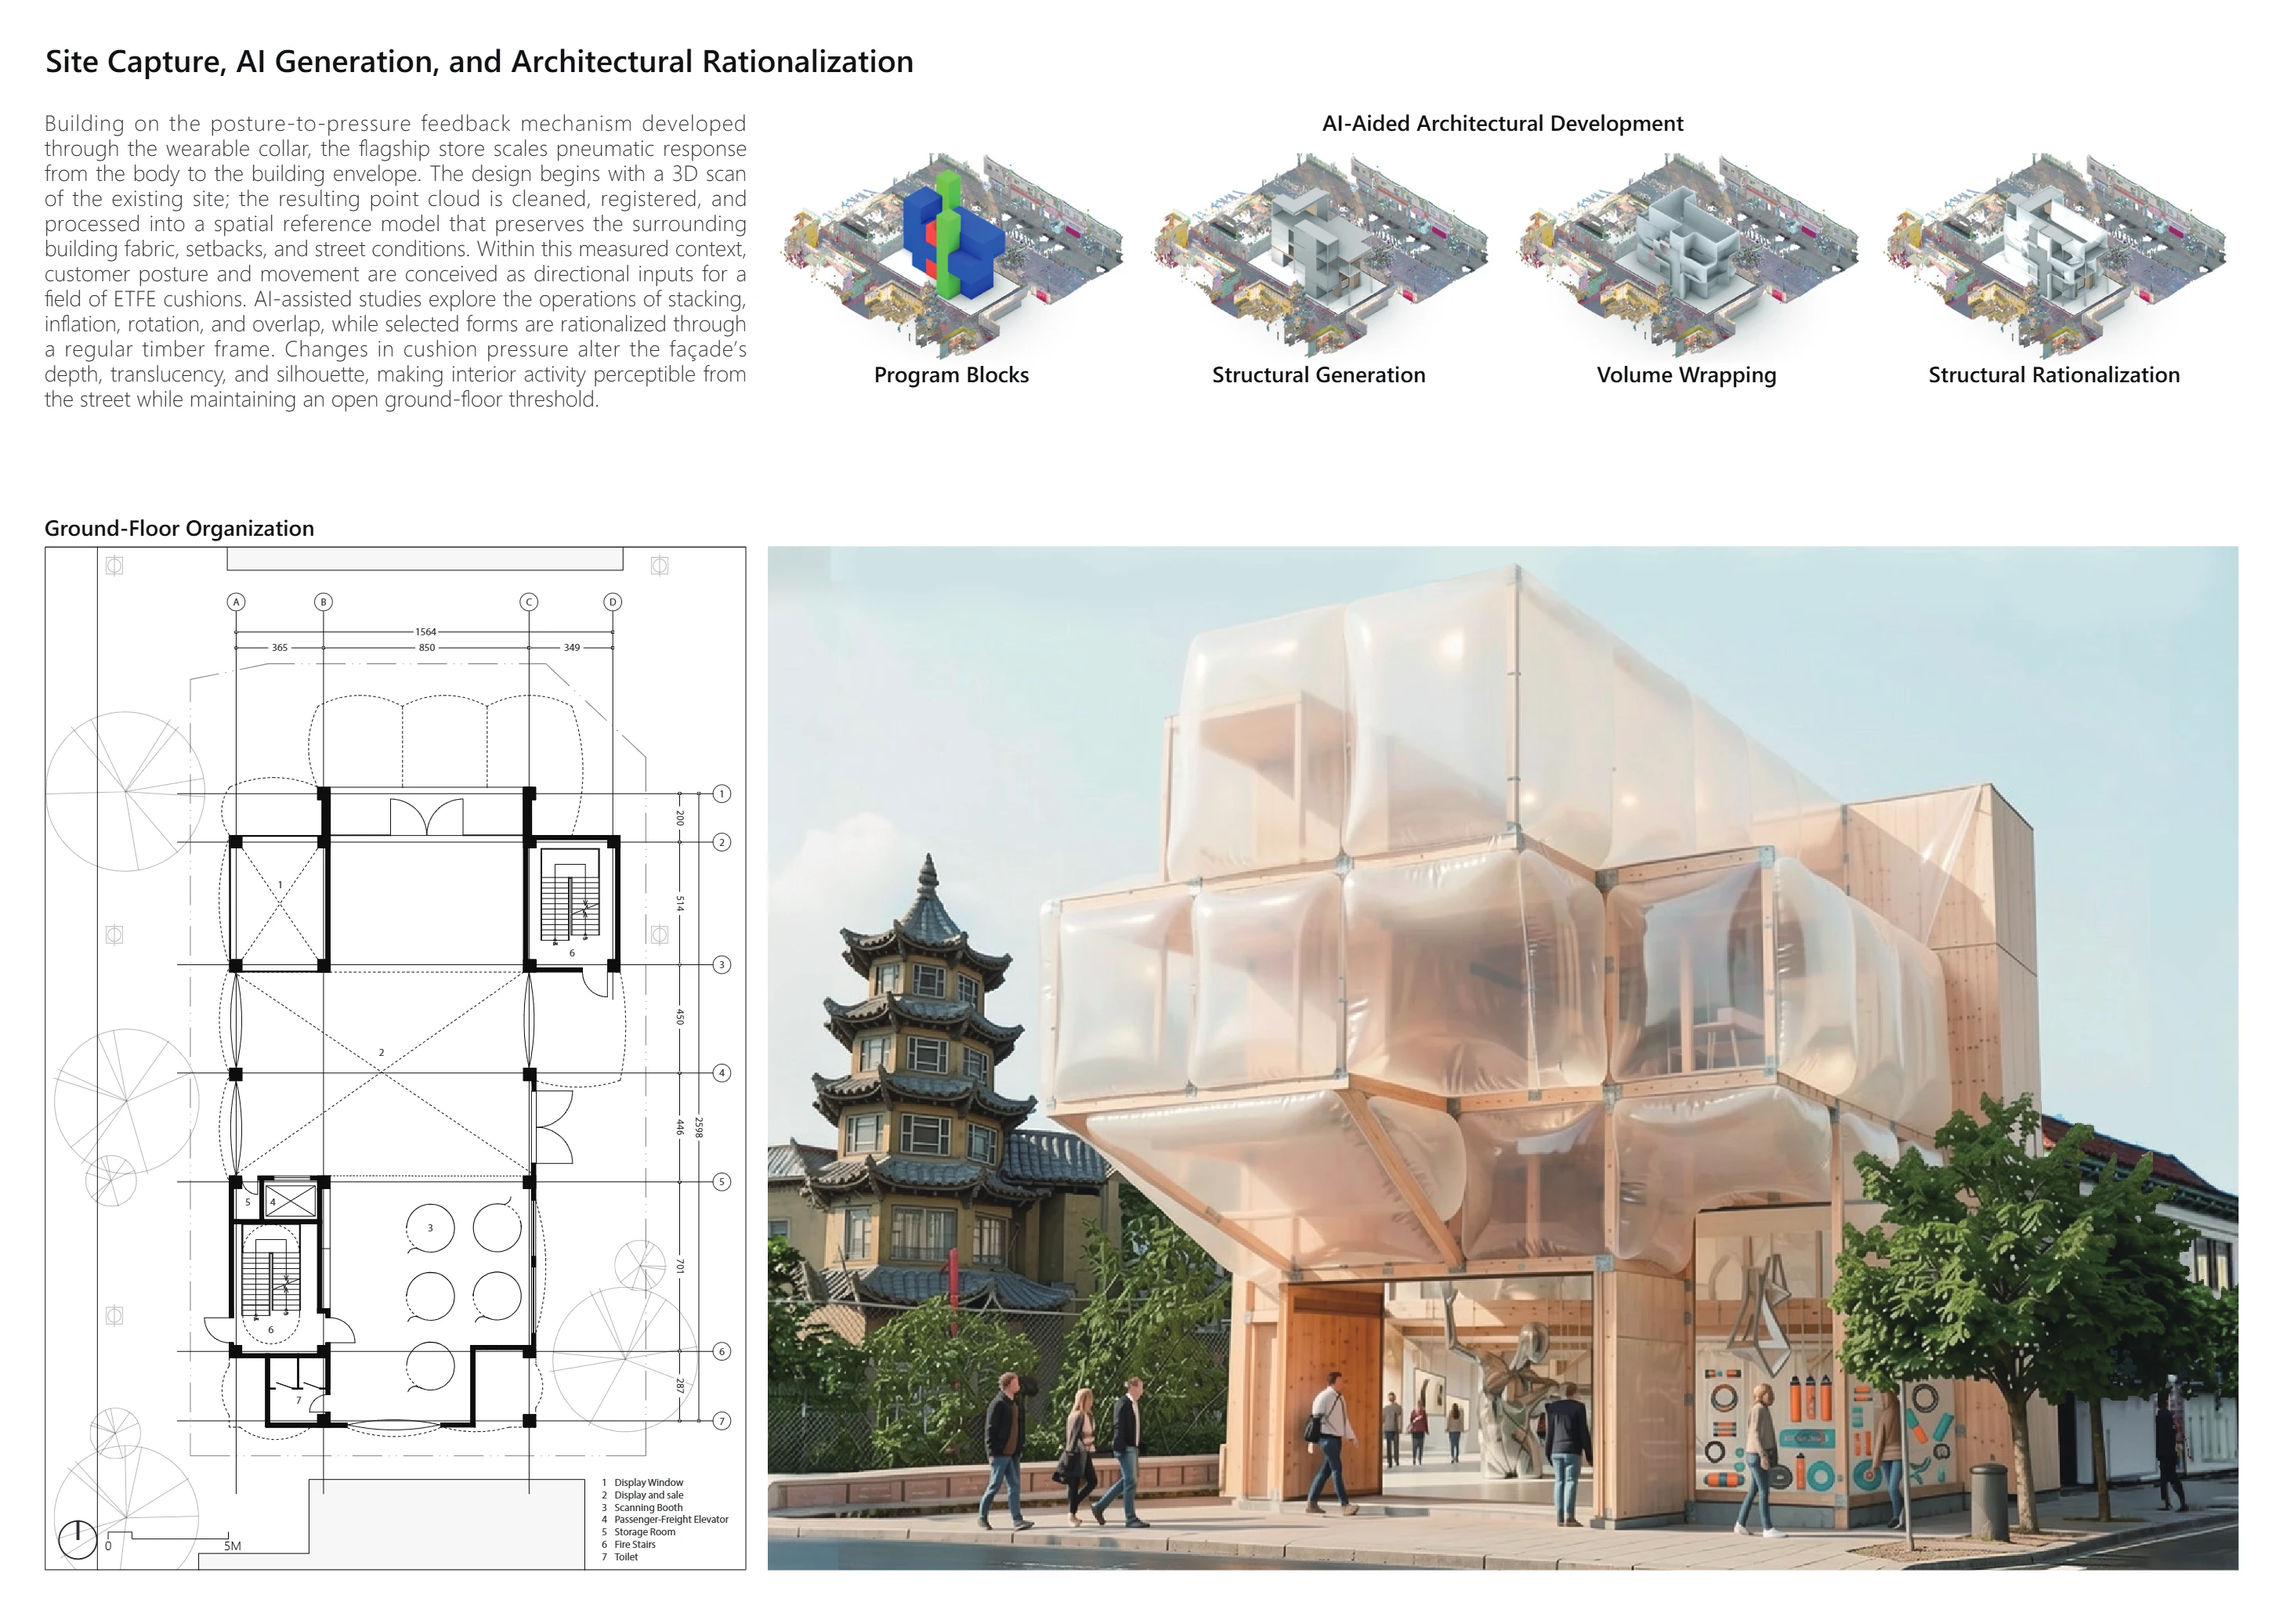
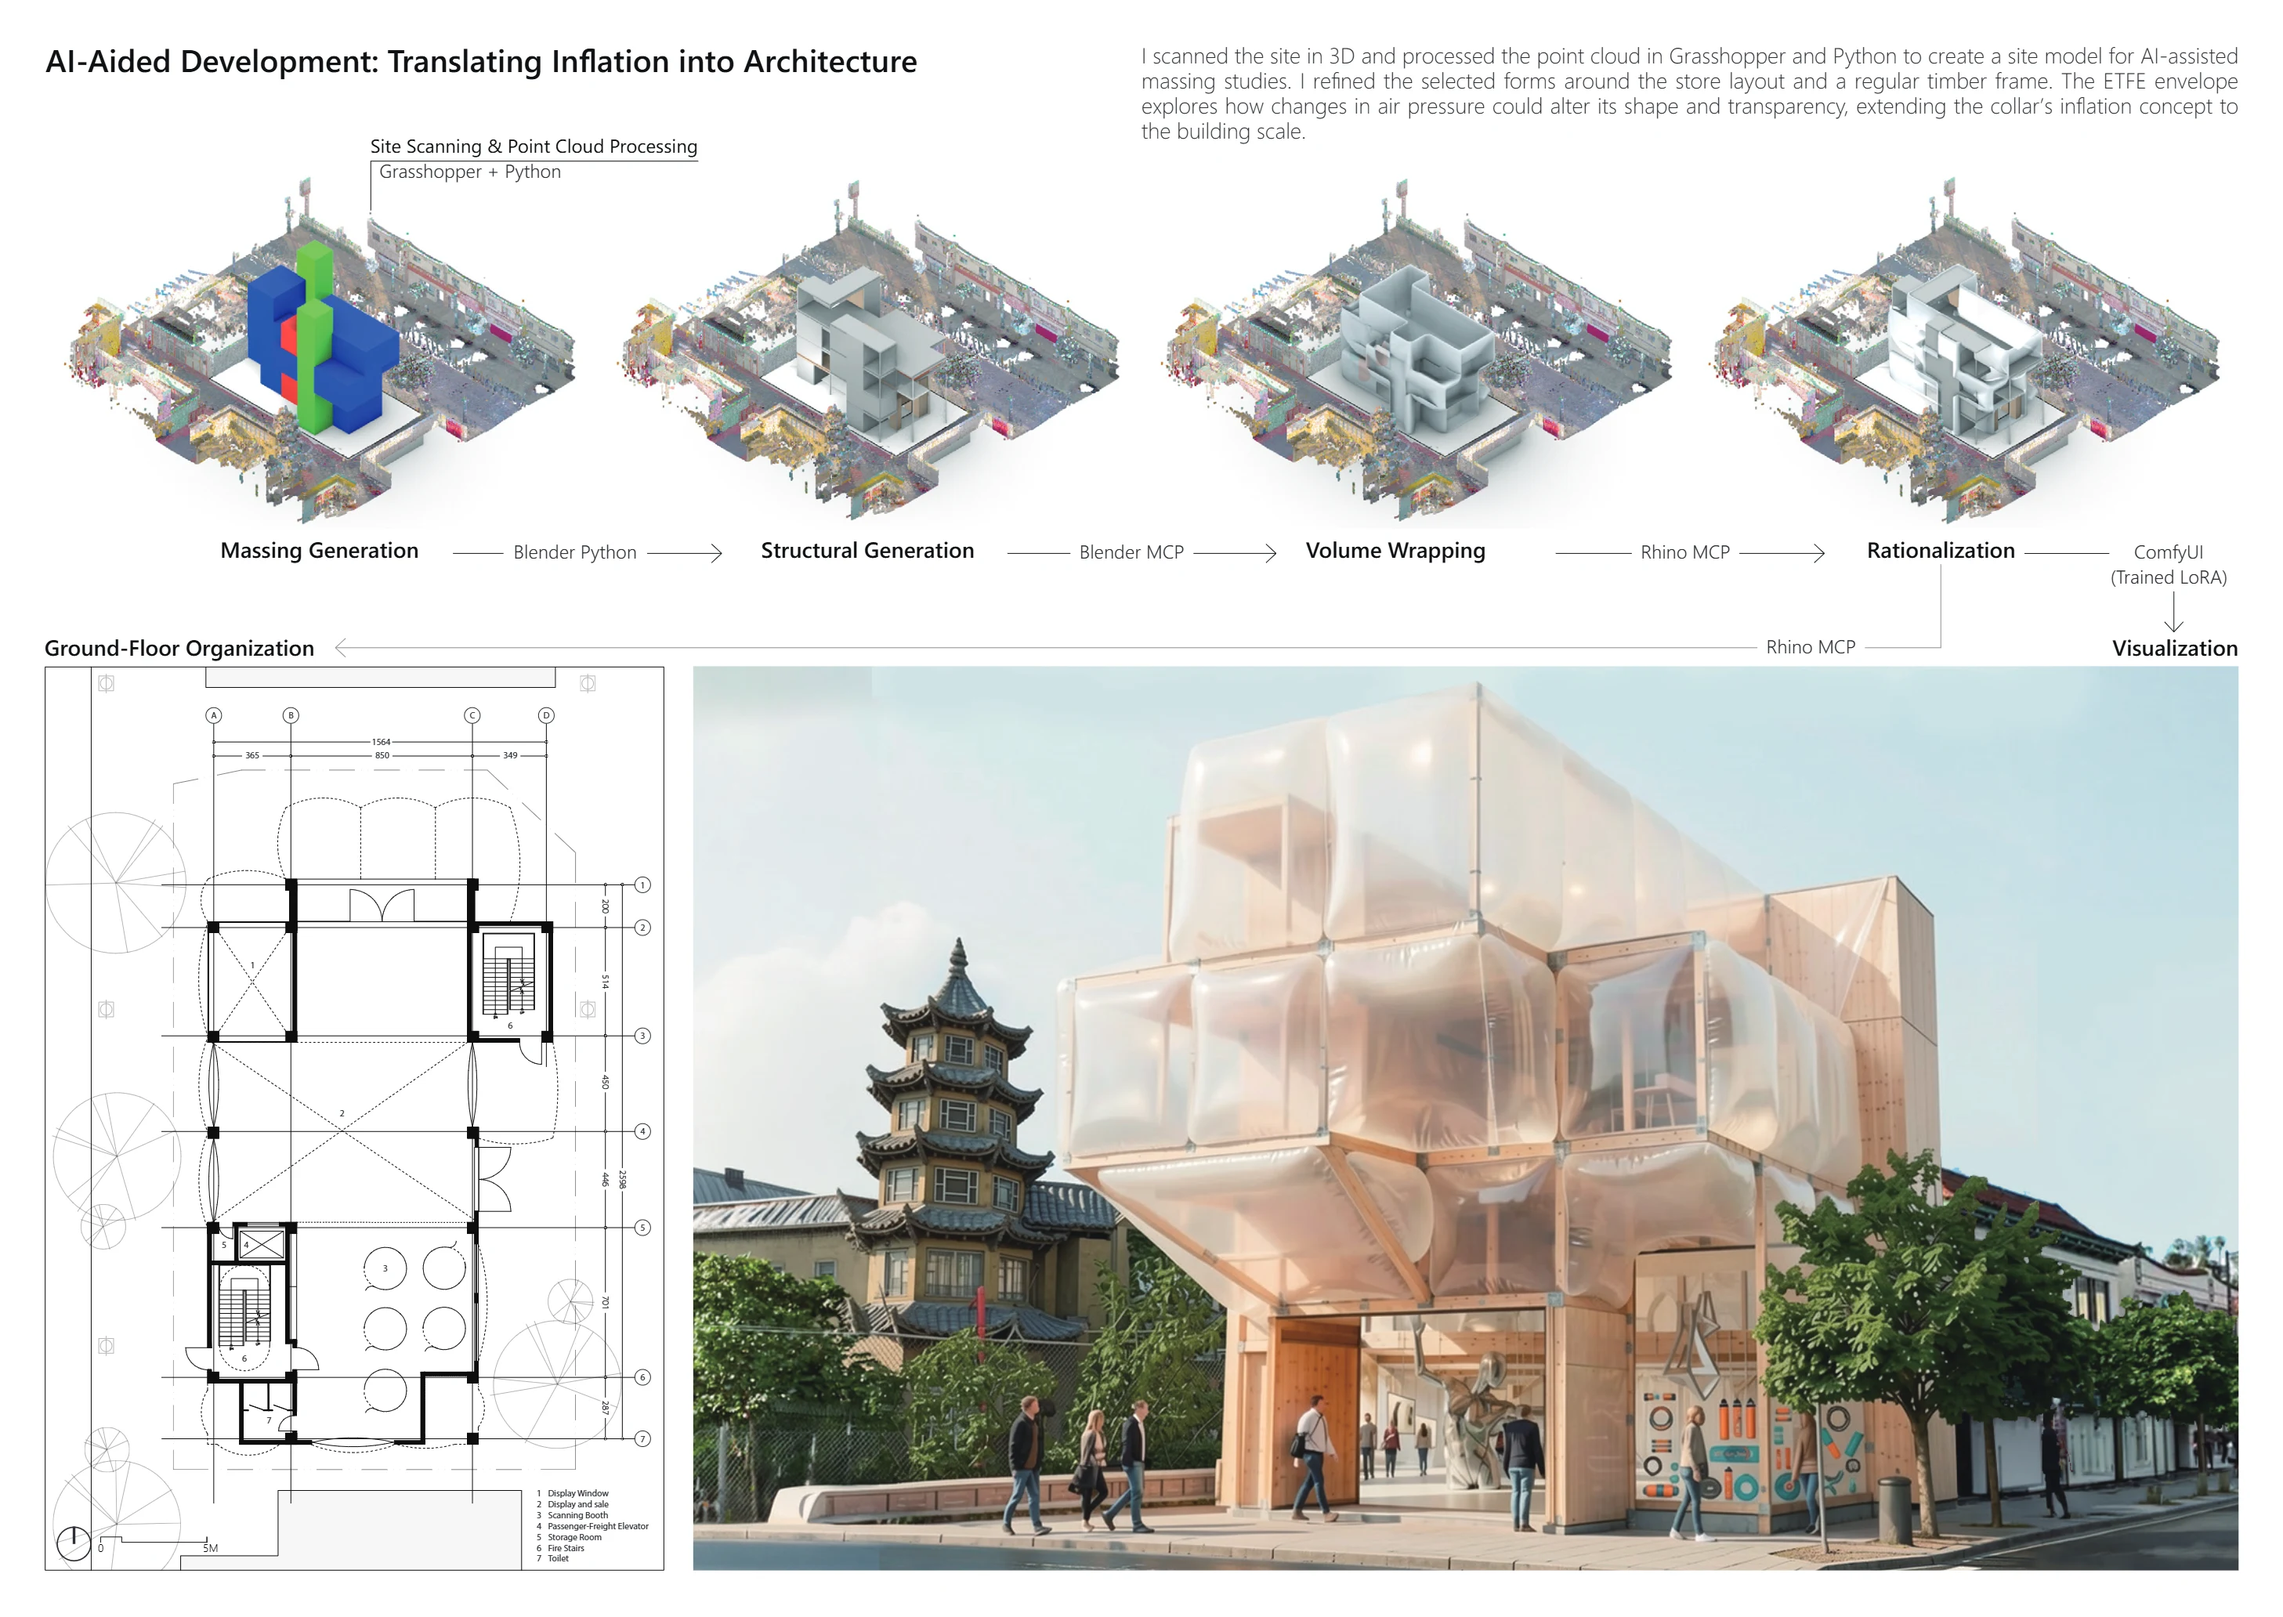
Update THRESHLD and SCI-Arc Gala sheets from the computational design portfolio
Re-render pages 4 to 6 of Portfolio_ComputationalDesign.pdf as the THRESHLD
sheets (new hydro-dip fabrication sheet, refreshed three-stage feedback and
flagship store sheets) and page 13 as a new SCI-Arc Gala workflow sheet.
Update the captions, the THRESHLD body text, and the Gala intro to match.

diff --git a/v3.js b/v3.js
@@ -150,7 +150,7 @@ const PROJECTS_V3 = {
     client: "SCI-Arc",
     services: "Generative AI workflow, wearable design, soft robotics, ETFE flagship store",
     intro: "This wearable collar responds when neck flexion exceeds a predefined range-of-motion threshold. Rather than issuing a single alert, it provides three escalating levels of physical feedback. Soft internal fingers first create a tactile reminder; if the posture is maintained, internal chambers inflate to reduce movement; at full inflation, the collar stiffens and guides the neck back toward a neutral position. The system transforms posture correction from passive notification into immediate bodily feedback.",
-    body: "The collar works in three stages. When neck flexion first exceeds the range-of-motion threshold, soft internal fingers contact the neck to provide a subtle physical reminder. If the incorrect posture is maintained, the internal air chambers gradually inflate, reducing the available range of movement. At full inflation the collar becomes structurally rigid, limiting further flexion and guiding the neck back toward a neutral position. The longer the incorrect posture is held, the stronger the physical feedback becomes.\n\nBuilding on that posture-to-pressure mechanism, the flagship store scales pneumatic response from the body to the building envelope. The design begins with a 3D scan of the existing site. The resulting point cloud is cleaned, registered, and processed into a spatial reference model that preserves the surrounding building fabric, setbacks, and street conditions. Within this measured context, customer posture and movement are treated as directional inputs for a field of ETFE cushions.\n\nAI-assisted studies explore the operations of stacking, inflation, rotation, and overlap, while selected forms are rationalized through a regular timber frame. Translucent enclosures form display rooms and suspended galleries, and an open ground-floor threshold connects the retail interior with the street. Changes in cushion pressure alter the facade's depth, translucency, and silhouette, making interior activity perceptible from the street.\n\nAdvisors: M. Casey Rehm and Garrett Santo. Built with Blender MCP, Rhino MCP, Grasshopper, Python, Houdini, ComfyUI (Flux 2 and Hunyuan3D), and hydro dipping. February to April 2026.",
+    body: "The collar works in three stages. When neck flexion first exceeds the range-of-motion threshold, soft internal fingers contact the neck to provide a subtle physical reminder. If the incorrect posture is maintained, the internal air chambers gradually inflate, reducing the available range of movement. At full inflation the collar becomes structurally rigid, limiting further flexion and guiding the neck back toward a neutral position. The longer the incorrect posture is held, the stronger the physical feedback becomes.\n\nThe prototype came out of a loop between reference images and material tests. A base geometry was generated in Meshy and refined in Rhino, then 3D printed. Color placement and surface patterns were explored in ComfyUI before the parts were hydro dipped, and the dipped shells were checked against texture and fit tests.\n\nBuilding on that posture-to-pressure mechanism, the flagship store scales pneumatic response from the body to the building envelope. The design begins with a 3D scan of the existing site. The resulting point cloud is cleaned, registered, and processed into a spatial reference model that preserves the surrounding building fabric, setbacks, and street conditions. Within this measured context, customer posture and movement are treated as directional inputs for a field of ETFE cushions.\n\nAI-assisted studies explore the operations of stacking, inflation, rotation, and overlap, while selected forms are rationalized through a regular timber frame. Translucent enclosures form display rooms and suspended galleries, and an open ground-floor threshold connects the retail interior with the street. Changes in cushion pressure alter the facade's depth, translucency, and silhouette, making interior activity perceptible from the street.\n\nAdvisors: M. Casey Rehm and Garrett Santo. Built with Blender MCP, Rhino MCP, Grasshopper, Python, Houdini, ComfyUI (Flux 2 and Hunyuan3D), and hydro dipping. February to April 2026.",
     cover: "images/THRESHLD/THRESHLD.mp4",
     coverHD: "images/THRESHLD/THRESHLD-1080.mp4",
     gallery: [
@@ -158,8 +158,9 @@ const PROJECTS_V3 = {
         left: [
           { src: "images/THRESHLD/work-02-03.webp", cap: "Flagship store interior. Timber frame, suspended galleries and the scanning booth beyond." }
         ] },
-      { src: "images/THRESHLD/2026/sheet-collar.webp", cap: "Inflatable cervical posture-feedback collar. Tactile cue, progressive inflation, then stabilizing constraint.", wide: true },
-      { src: "images/THRESHLD/2026/sheet-store.webp", cap: "Site capture, AI generation, and architectural rationalization, with the ground-floor organization.", wide: true },
+      { src: "images/THRESHLD/2026/sheet-fabrication.webp", cap: "From reference images to a hydro-dipped prototype. Pattern studies in ComfyUI, then 3D printing, hydro dipping, and texture tests.", wide: true },
+      { src: "images/THRESHLD/2026/sheet-collar.webp", cap: "Three-stage feedback. Tactile contact, progressive inflation, then increased resistance, with the collar worn.", wide: true },
+      { src: "images/THRESHLD/2026/sheet-store.webp", cap: "Translating inflation into architecture. Site scanning and point-cloud processing, massing generation, rationalization, and the ground-floor plan.", wide: true },
       { src: "images/THRESHLD/timelapse_noVoice.mp4", cap: "Fabrication timelapse." },
       { src: "images/THRESHLD/mvLYsvfeKxzzeysLGpoI3_844fd4faae1c40de9c0b257b125353bb.mp4", cap: "Three-step intervention: remind, warn, then rigid rest." }
     ]
@@ -205,8 +206,8 @@ const PROJECTS_V3 = {
     team: "3-person team",
     role: "Developed image sequences, motion transitions, and projection-ready outputs with M. Casey Rehm for the building-scale installation.",
     client: "SCI-Arc · M. Casey Rehm", services: "",
-    intro: "The 2025 SCI-Arc Gala projected a continuous film across the Los Angeles Central Library façade. Image sequences, motion transitions, and projection output were developed with M. Casey Rehm, editing architectural drawings and generated imagery into one building-scale piece.",
-    body: "",
+    intro: "The 2025 SCI-Arc Gala projected a continuous film across the Los Angeles Central Library façade. Forty selected student projects were turned into animated footage and transitions with Python and ComfyUI, carrying architectural, product, and interior design work into one building-scale piece. My contribution covered image development, motion sequences, and the projection-ready output.",
+    body: "Forty selected student projects were turned into animated footage and transitions using Python and ComfyUI. The sequence carried architectural, product, and interior design work across the entrance façade of the Los Angeles Central Library.\n\nThe ComfyUI and Python workflow handled image-to-video generation and first-frame-to-last-frame transitions, so separate student images could be joined into one continuous film. My contribution covered image development, motion sequences, and the projection-ready output.",
     cover: "images/sciarc-gala/SCIArcGalaFinalVideo.mp4",
     coverPortrait: true,
     gallery: [
@@ -216,6 +217,7 @@ const PROJECTS_V3 = {
         left: [
           { src: "images/sciarc-gala/Gemini_Generated_Image_8fvg1i8fvg1i8fvg.webp", cap: "Projection mapping turns the historic tower into a canvas." }
         ] },
+      { src: "images/sciarc-gala/2026/sheet-projection.webp", cap: "From student projects to a continuous projection. A student image, the generated film frame, and the same frame on the library façade.", wide: true },
       { src: "images/sciarc-gala/heroshot+exp.webp", cap: "SCI-Arc Gala 2025, a night in downtown Los Angeles.", wide: true },
       { src: "images/sciarc-gala/Gemini_Generated_Image_vrft60vrft60vrft.webp", cap: "Projected drawings washing over the old stone." }
     ]
